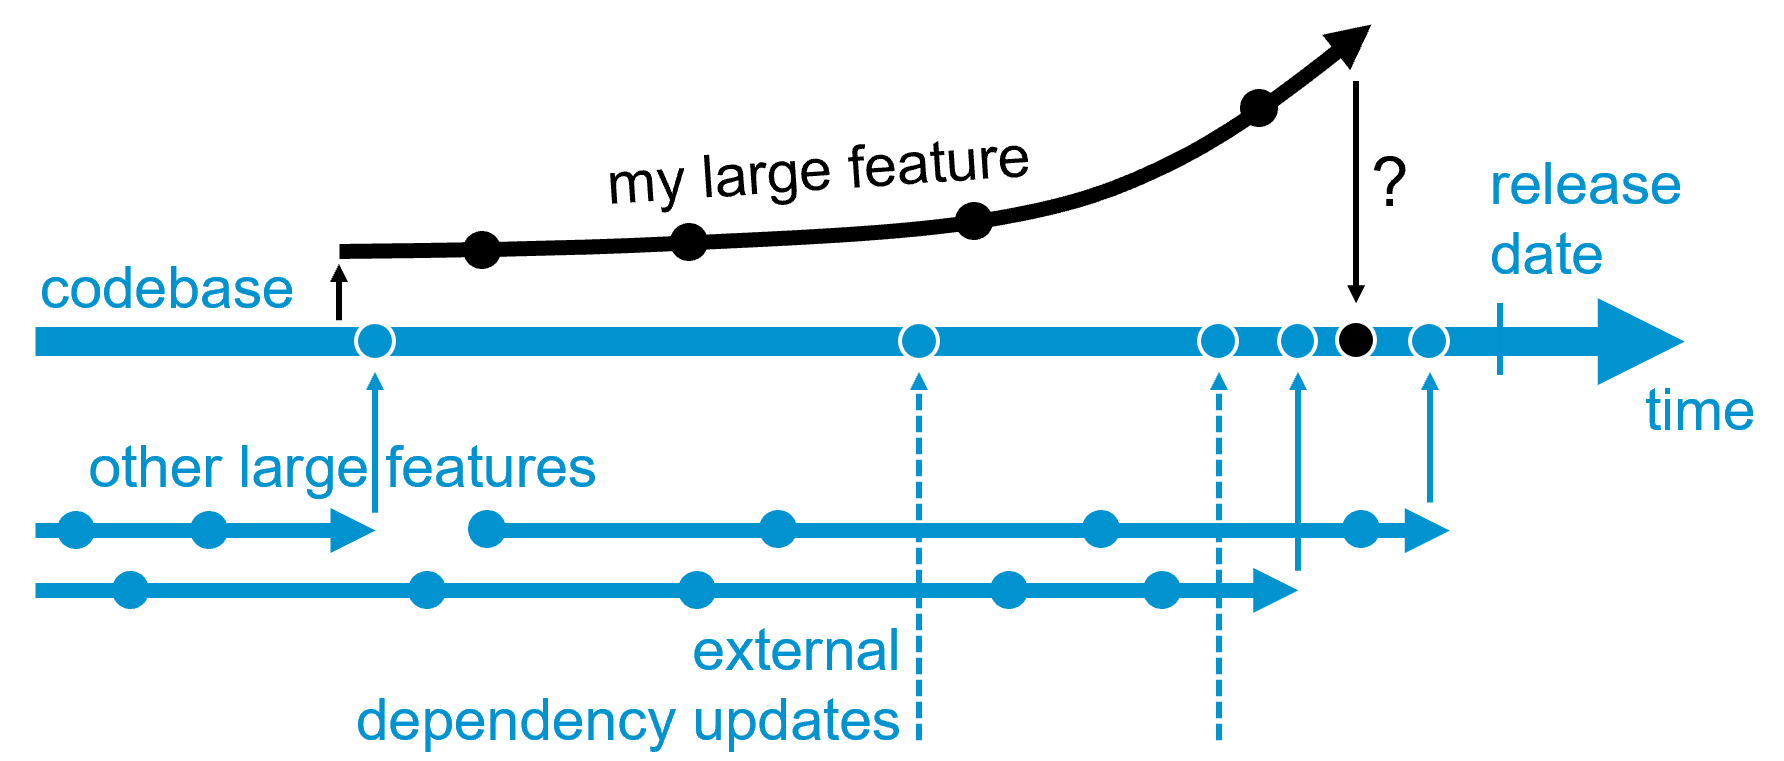
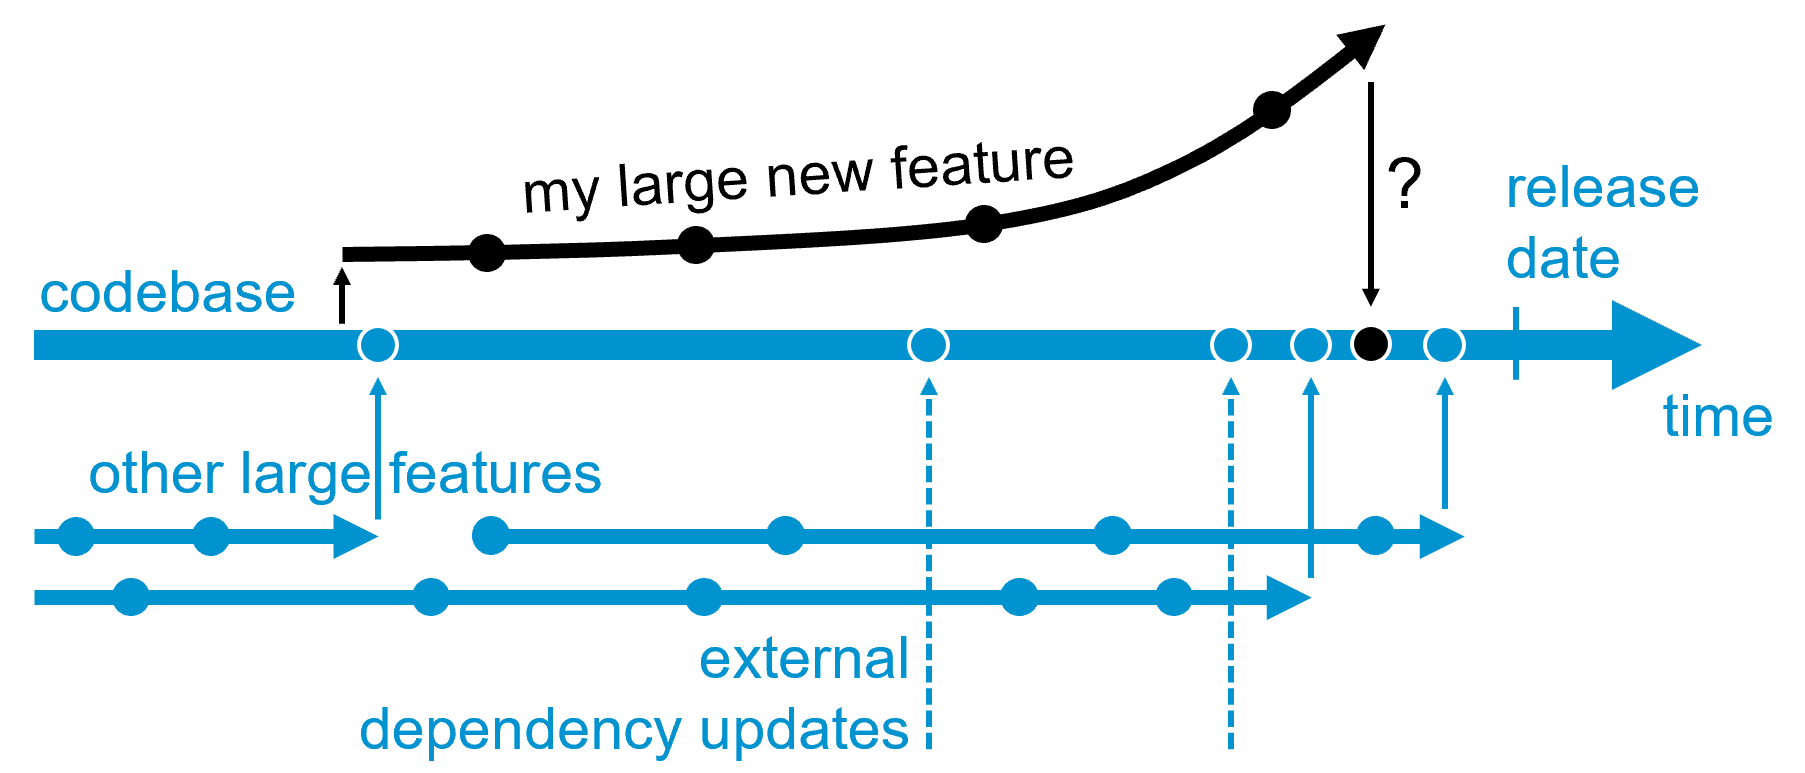
chapter 2

diff --git a/doc/source/01_welcome.md b/doc/source/01_welcome.md
@@ -7,9 +7,9 @@ We press run, and no surprise, the new code works on our machine.
 Therefore, we think we need to follow no procedures when coding.
 
 Being a part of a large company, the next step is to integrate our new code.
-Integrating means "putting" our code into the millions of lines of working code already existing in our codebase.
-To make things even more complicated, our 300+ colleagues also integrate their new code simultaneously.
-The sheer endless amount of external libraries we use, including their own dependencies, is constantly updated. 
+Integrating means "putting" our code into the millions of lines of working code already existing in the company's codebase.
+To make things even more complicated, our mote than 300 colleagues also integrate their new code simultaneously.
+The sheer endless amount of external libraries we use, including their dependencies and the dependencies of their dependencies, is also constantly updated. 
 This creates a moving integration target.
 
 ![Integration](img/1/branches.png)
@@ -17,8 +17,8 @@ This creates a moving integration target.
 Integration is hard. 
 Thus, we tend to avoid it.
 As a result, the code-changes we work on get bigger and bigger.
-Meanwhile, the codebase has diverged even more from where it was when we started the feature. 
-The longer we wait, the exponentially worse things get, especially just before the release when we are already in a hurry, as all the others are. 
+Meanwhile, the codebase has diverged even more from where it was when we started the new feature. 
+The longer we wait, the exponentially worse things get, especially just before a release when we are already in a hurry, as all the others are. 
 
 Still, we can do it. 
 We work extra-long shifts. 
@@ -28,7 +28,7 @@ There is always a loophole left open that we can exploit.
 This all does not feel right.
 Short-term thinking cannot be good for our company in the long term, can it?
 We feel incredibly uncomfortable, but managers told us we need to deliver to stay in business. 
-Lately, this happens so often that we browse other companies’ job offers while waiting for our endless builds to finish. 
+Lately, this happens so often that we browse other companies' job offers while waiting for our endless builds to finish. 
 Fortunately, there are so many cool things about our company that we power through.
 
 So far, so good, but wait!
@@ -57,24 +57,27 @@ There is no one-fits-all recipe for software engineering.
 The best-practice target picture for open-source projects with sporadic contributors (the kind of environment you might be most familiar with) is different from the target picture of large enterprise setups with hundreds of full-time employees.
 Still, we do not need to be like Netflix with its microservices or Google with its gigantic mono repo and custom tooling. 
 
-For MotionWise, we are __300+ full-time developers__. 
+For MotionWise, we are __more than 300 full-time developers__. 
 We __trust each other__. This setup differs from open-source development where long-time branching is inevitable and developers need to review code from untrusted, potentially malicious contributors. 
 
 Our __30+ million lines codebase__ is monolithic and full of legacy.
 Large-scale refactoring across libraries is common.
 We see this daily when pull requests span several, if not dozens, of repositories.
 
-There is also __no end date__ for our codebase. We will need to support all our customer projects with new features for many more years. Except for L4-Releases (the ones with millions of cars on the road), our customers will not pay for any release branch to be manually kept up to date. 
+There is also __no end date__ for our codebase. We will need to support all our customer projects with new features for many more years. Except for ''L4-Releases'' (the ones with millions of cars on the road), our customers will not pay us for keeping any branch up to date. 
+
+Our code must **adhere to regulatory standards such as ISO 26262 and ASPICE** to minimize the risk of failure. This requires very formal requirements documentation and tracing from system design to testing throughout the so-called ''V-Model''. 
 
 Most of all, in our business, developers change teams occasionally and do stay only for several years. Thus, we need a development scheme that is easily learned, quickly understood not only by the brightest among us, and easily enforced. In engineering, simplicity cannot be underestimated.
 
 We should also not employ more than one development schema for personal preferences, customer preferences, or simply because a certain way of working looks easier for one particular use case. What looks promising in the short run, often turns out to not scale well in the long run, especially when people need to switch teams or interact with other teams. 
 
 That being said, there is a well-established industry best practice _for this particular setup_ that has proven to scale and stand the test of time more efficiently than developing large features is isolation on branches:
-**Continuous development at the head of a single repository**. 
-How we want to achieve this will be explained in the chapters below. 
+**Continuous development at the head of a single repository**.
 
-In short, [we version control all our product and project code (our "colonies") in folders within one repository](chap_version_control). This repository has a special  branch called main. [Newly developed code is always merged with the head of main](develop_at_head). To work, we also always check out our code from main. Consequently, [we agree as a team to never break main](chap_never_break_main). We achieve this by [building and checking our code before merging](chap_build_before_merge). In the unlikely case we missed something and cannot correct our mistake fast, [we revert](chap_revert) to the last known working state to unblock us and our colleagues. 
+How we want to achieve this (new) way of working will be explained in Chapters 2 to Chapter 16: 
+
+In short, [we version control all our product and project code (our "colonies") in folders within one repository](chap_version_control). This repository has a special  branch called main. [Newly developed code is always merged with the head of main](develop_at_head) stating with a fresh check-out from main. Consequently, [we agree as a team to never break main](chap_never_break_main). We achieve this by [building and checking our code before merging](chap_build_before_merge). In the unlikely case we missed something and cannot correct our mistake fast, [we revert](chap_revert) to the last known working state to unblock us and our colleagues. 
 
 Obviously, this only works if [we automate the one build](chap_automate_the_one_build) of main and have a [vast amount of high-quality tests](chap_tests). Such tests cannot be created after coding has been done. They need to be created iteratively while coding, either test first or code first, [then test, then code, and so on in small two-minute cycles](chap_tdd). 
 
@@ -82,7 +85,9 @@ Collaboration with team members happens on main and not on branches. This is why
 
 Sounds too good to be true, but can be achieved [using a build-system that never builds any part of the software twice](chap_build_system) but instead uses the cached result from a prior execution. Such caching can only work well if all build-steps are deterministic (same input - same output) and hermetic (all inputs controlled). Furthermore, [the codebase needs to be decoupled](chap_decouple) into small build-steps with all dependencies being known beforehand. Thus, as always, to win, [we need to educate ourselves](chap_educate) and [invest in architecture](chap_architecture).
 
-Our life does not need to be painful. When using a sophisticated build system, there is no difference anymore if we start the build locally or from the CI in a pull request: speed and result are the same. There is no need to know any dependency in a 30+ million lines codebase anymore. Let the build system and the tests do their job.
+Our life does not need to be painful! Developing new features and even bug-fixing can be an enjoyable experience in the setup outlined above. The critical game changer is a fast build-system that reports back test results within ten minutes. When using a sophisticated build system, there is no difference anymore if we start the build locally or from the CI in a pull request: speed and result are the same. 
+
+Why ten minutes? Ten minutes is enough time to drink morning coffee and think about the next task instead of all dependencies in a 30+ million lines codebase.
 
 ## It's all about the mindset.
 
@@ -95,3 +100,5 @@ Secondly, programming is and will always be a tradeoff. Enforcing a clean-code r
 Thirdly, we cannot cover any possible situation we will encounter in our daily business with a rule. What to do then? 
 
 We believe that mindset is more important than strict rules. Remember the assumption from above: We trust each other. This is why we will focus on mindset in the sections that follow and hope that these guiding principles will help you to make the best possible choices in whatever situation we are in. 
+
+Changing habits is hard. Changing habits takes a long time. Give it a try. Trust me, it's worth it!

diff --git a/doc/source/02_version_control.md b/doc/source/02_version_control.md
@@ -1,18 +1,33 @@
 (chap_version_control)=
 # We version control everything in one repo
 
-Poly-repos would make sense if we had multiple teams with clearly separated responsibilities plus well-defined and stable interfaces. 
-Then each team could work in their own "mono-repo". This is the common way of working in the open-source world nowadays.
+The first thing we need as a software company is a place to store code, documentation, tools, infrastructure-configuration, and other artifacts, e.g., test inputs. In an ideal world, we would put all this data in one version control system that stores a single unambitious snapshot of all our data. 
 
-For MotionWise, our codebase is a hugely convoluted monolith. Dependencies between parts of the code are everywhere and not well-known. Feature owners are responsible to integrate their features into all projects. Consequently, we are one large team that nees only one Git repository for MotionWise 2.0 and all customer projects based on it. Working with one repo is easy: Type _scalar checkout path_of_repo_ on the command line to get all you need. Continue to work with standard git commands (git fetch, pull, commit, ...).
+![a snapshot of the entire codebase](img/2/snapshot.png)
 
-In contrast to Camel, a single repo allows for ordered atomic commits with standard of the shelf tooling. Further benefits are the ability to do fast workspace updates (fetch takes only some seconds), background prefetch, mirroring, rollbacks, usage of standard tooling to build a pull request and much more. Plus, we need to train, document, and maintain one home-grown tool less.
+Such a snapshot could then be identified by a hash, making modifications to its content impossible. Changes to the codebase will create new hashes for new snapshots, leading to an unambitious state of the entire codebase at any given point in time. How to update the codebase will be discussed in [the next chapter](develop_at_head). For now, let us focus on working with one snapshot. 
 
-For our daily work this means:
+Remember the bug from the introduction that we need to fix. Our life would be much easier if we can get a snapshot of the whole codebase with the bug in it on our local machine. Ideally, this should be the same snapshot the tester used when she discovered the bug. 
+
+The good news first. We use "Git" in our company. Git is not only the de-facto standard source-code version control tool nowadays. Git also allows us to check out an unambitious source-code snapshot from a repository given only a hash. We can trust Git to do so correctly as this is one of its core design principles to prevent malicious modification of open-source code. 
+
+Now, things get tricky. Our code is not stored in one Git repository. We store our code in several repositories because we believed this would allow us to separate ownership, permissions, and ultimately, create independent versions for all components of our software. The fact is, our codebase is a hugely convoluted monolith. Dependencies between repositories are everywhere and not well-known. 
+
+In such a setup, the effort and tooling needed to synchronize multiple repositories does not pay off. Poly-repos would make sense if we had numerous teams with clearly separated responsibilities plus well-defined and stable interfaces. Then, each team could work in their own "mono-repo". This is the standard way of working in the open-source world nowadays.
+
+Large enterprises with large codebases nowadays mostly go the exact opposite approach for all their internal code: _One_ repository. In our case, **one Git repository for MotionWise 2.0 and all customer projects based on it**. 
+
+You may remember that in the past, Git did not work well with large repositories. All that changed since Microsoft updated Git in late 2022. Working with one large Git repository is now an enjoyable experience. After cloning the repository, you never need to clone again. Modern Git fetches all new updates to this repository in the background, making long waiting times for _git fetch_ a relic of the past even when the internet connection is slow. Now that all your code is one repo, you get atomic snapshots of your whole codebase ordered in time. This means you can go backward and forward from any point in time instantly. Using modern Git, there is no single benefit anymore to storing a monolith in multiple Git repositories instead of subfolders of a single Git repository.
+
+Coming back to the bug that we needed to fix. Now that we have all our code in one Git repository, does checking out the correct snapshot give us an environment where we can reproduce the bug? Unfortunately not, as there is more in our environment than just code:
+
+For our daily work, this means:
+
 1. **We store all build inputs in a single Git repository**. This includes code, tests, configuration, and infrastructure.
 2. We serve large binaries via Git-LFS from Artifactory
-3. **We consume well separated internal and external dependencies with stable and clearly defined interfaces as packages linked by a hash** from Artifactory. For example: Python, Gtest, or Python PIP packages. Linking external input by version, filename, or id is not allowed, as this allows the build inputs to change, therefore making the build potentially non-deterministic. 
-4. We must not consume build inputs from systems such as MongoDB, Polarion or ActiveDirectory for the same reason. If required, a copy (or a link by hash) may be added to Git with an automated pull request.
+3. **We consume well-separated internal and external dependencies with stable and clearly defined interfaces as packages linked by a hash** from Artifactory. For example: Python, Gtest, or Python PIP packages. Linking external input by version, filename, or id is not allowed, as this allows the build inputs to change, making the build potentially non-deterministic. 
+4. We must not consume build inputs from systems such as MongoDB, Polarion, or ActiveDirectory for the same reason. If required, a copy (or a link by hash) may be added to the codebase in Git via pull request.
 
+The clear goal here is to ensure data integrity by creating a Merkle tree starting from a single Git repository. This means that even if we cannot store everything in one repository because of tool breaks, we version control everything in one repository.
 
 

diff --git a/doc/source/03_develop_at_head.md b/doc/source/03_develop_at_head.md
@@ -1,18 +1,20 @@
 (develop_at_head)=
 # We continuously develop at the head of main.
 
-A significant driver of inefficiency is having to support and align multiple versions of units, components, and tools.
+A significant driver of developer frustration and inefficiency is having to support and align multiple versions of units, components, and tools.
 Versions create an additional dimension of complexity in an environment that is already complex enough.
 
 The de facto standard for versioning is SemVer. SemVer works well on limited scales. However, things get tricky when not thinking about individual dependencies but very large dependency networks at scale over time. See [^myref] for an excellent summary on this topic.
 
 [^myref]: Dependency Management, Titus Winters: [abseil.io/resources/swe-book/html/ch21.html](https://abseil.io/resources/swe-book/html/ch21.html)
 
-Given a huge monolithic codebase in a single repo, our straight-forward 
-best-practice solution to conflicting versions is to have no versions within this repo. 
-Instead, __we merge all changes to the head of main__ (after being tested well enough, [more on that later](chap_build_before_merge)). This style of development is called "Trunk Based Development":
+Given a huge monolithic codebase in a single repository, our straight-forward 
+best-practice solution to conflicting component versions within this repo is to not have versions.
 
-![pic](img/3/img_4.png)
+
+Instead of creating a new version with every change of a component, __we merge all changes to the head of main__ (after being tested well, [more on that later](chap_build_before_merge)). This style of development is called "Trunk Based Development":
+
+![pic](img/3/tbd.png)
 
 ## The one version rule
 
